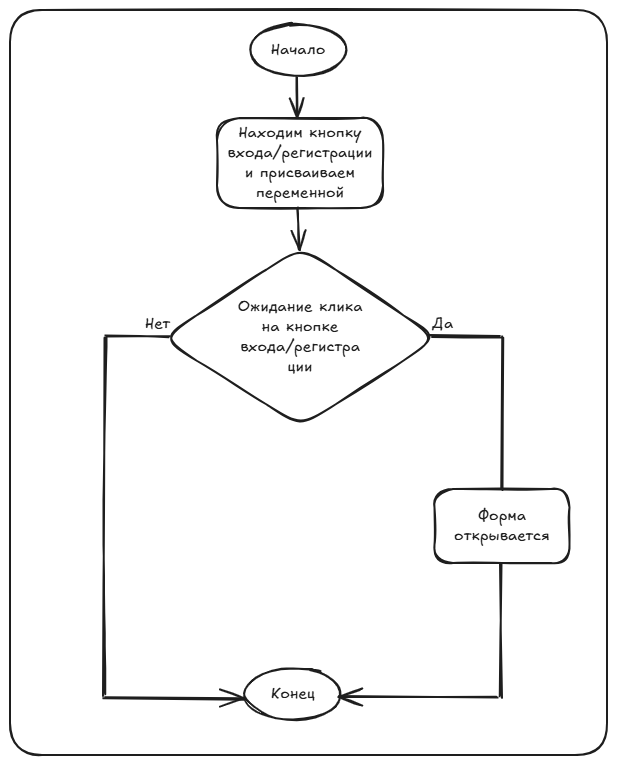
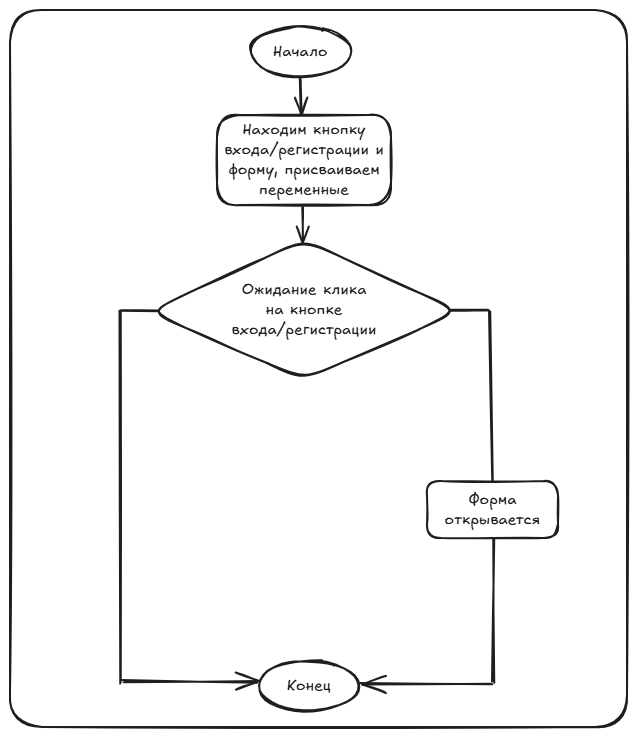
Add files via upload

diff --git a/script/script.js b/script/script.js
@@ -1,16 +1,30 @@
 "use strict";
 document.addEventListener("DOMContentLoaded", () => {
     // * 1. Начало.
-    // * 2. Находим кнопку входа/регистрации и присваиваем переменной.
+    // * 2. Находим кнопку входа/регистрации и форму, присваиваем переменные.
     // * 3. При клике на кнопку входа/регистрации форма становится видимой:
     // *    3.1. Да: 
     // *        3.1.1. Форма открывается.
     // *    3.2. Нет: продолжаем.
     // * 4. Конец
+});
+    const headerButton = document.querySelector(".menu__button");
+    const popupDialog = document.querySelector(".dialog");
 
-    const intensiveImg = document.querySelector(".menu__item");
-    intensiveImg.addEventListener('mouseenter', () => {
-        console.log("Мышка наведена на кнопку, показываем форму");
-    });
+    if (headerButton && popupDialog)
 
+        console.log("Существует кнопка и форма");
+        headerButton.addEventListener("click", () => {
+            popupDialog.removeAttribute("hidden");
+        });
+    // Закрытие модального окна при клике его вне области
+    window.addEventListener("click", (event) => {
+        if (event.target === popupDialog) {
+            popupDialog.setAttribute("hidden", true);
+        }
+        const closeModalButton = document.querySelector(".popup__close");
+        closeModalButton.addEventListener("click", () => {
+            popupDialog.setAttribute("hidden", true);
+        });
+        
 });

diff --git a/index.html b/index.html
@@ -20,7 +20,7 @@
                 <li class="menu__item"><a class="menu__link" href="#">О нас</a></li>
                 <li class="menu__item"><a class="menu__link" href="#">Блог</a></li>
                 <li class="menu__item"><a class="menu__link" href="#">Контакты</a></li>
-                <li class="menu__item"><a class="menu__link" href="#">Вход/Регистрация</a></li>
+                <li class="menu__item"><button class="menu__link menu__button" href="#">Вход/Регистрация</button></li>
             </ul>
         </nav>
     </header>
@@ -189,7 +189,8 @@
             <li class="footer__item"><a class="footer__link" href="#">Контакты</a></li>
         </ul>
     </footer>
-    <div class="popup" hidden>
+    <div class="dialog" hidden>
+          <div class="popup" >
             <form class="popup__form">
                 <h2>Регистрация</h2>
                 <input type="name" name="name" placeholder="Имя" required>
@@ -198,9 +199,11 @@
                 <input type="password" name="password" placeholder="Пароль" required>
                 <input type="password" name="confirm__password" placeholder="Подтвердите пароль" required>
                 <button type="submit">Зарегистрироваться</button>
-                <button type="button">Отмена</button>
+                <button class="popup__close" type="button">Отмена</button>
             </form>
+    </div>  
     </div>
+
     <script src="script/script.js"></script>
 </body>
 

diff --git a/styles/popup.css b/styles/popup.css
@@ -13,3 +13,12 @@
     flex-direction: column;
     row-gap: 15px;
 }
+.dialog{
+    position: fixed; /* позицинорование фиксированное */
+    top: 0; /* Элемент будет находиться на верхней границе экрана*/
+    left: 0; /* Элемент будет находиться на левой границе экрана.*/
+    width: 100%;/* Ширина 100% от окна браузера */
+    height: 100%;/* Высота 100% от окна браузера */
+    background-color: rgba(58, 60, 65, 0.7); 
+
+}
